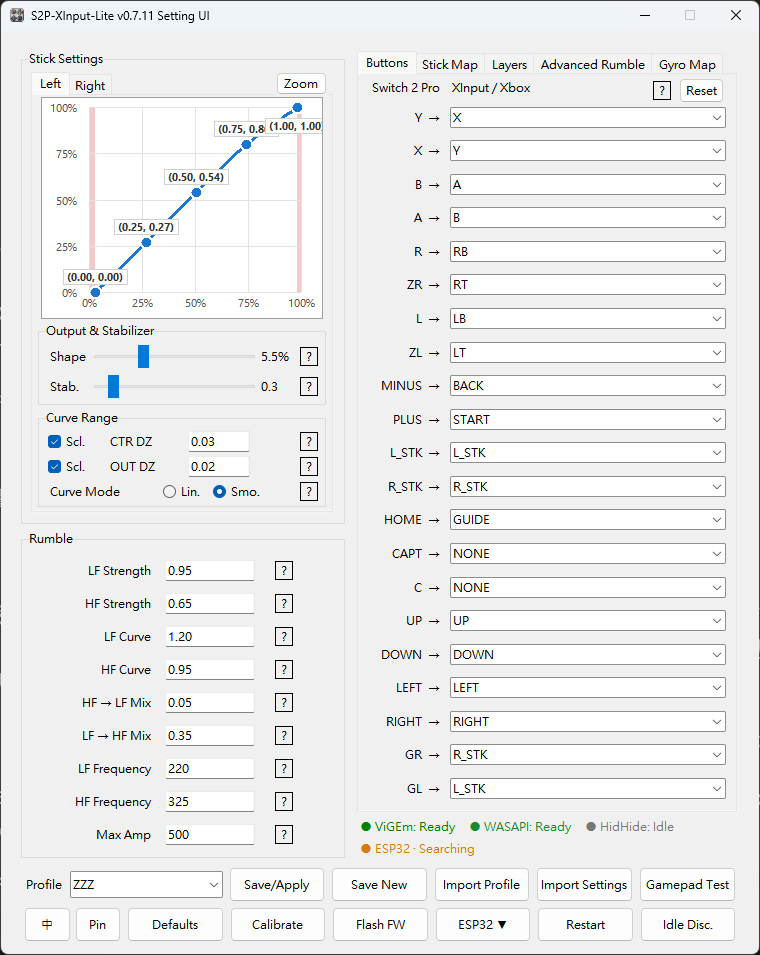
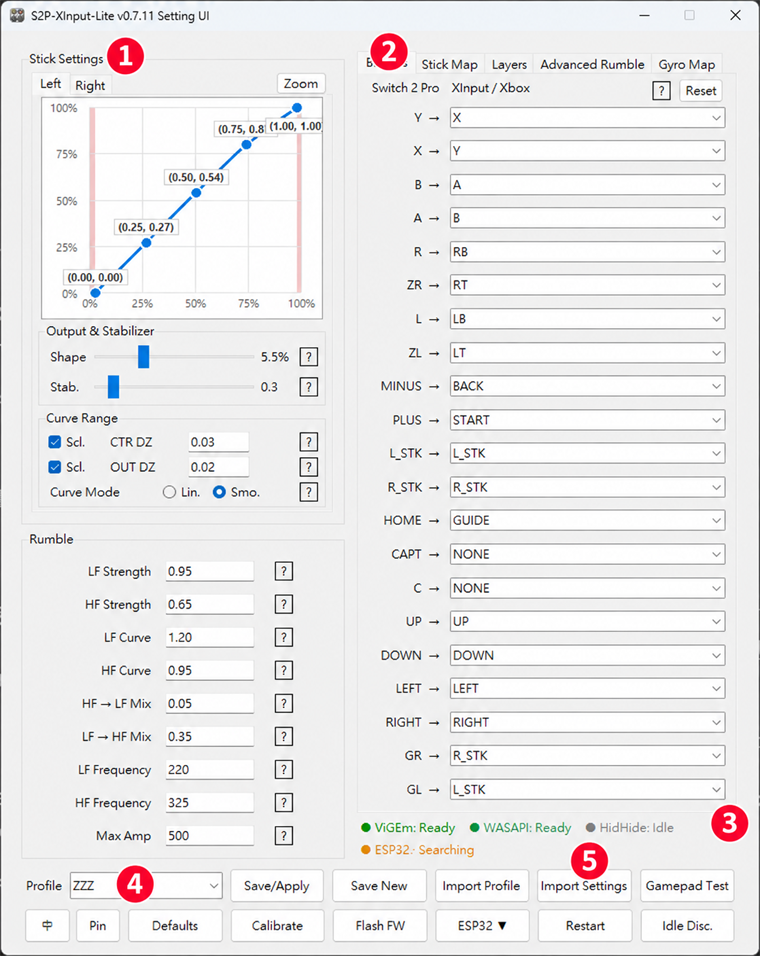
Annotate v0.7.11 manual screenshots

diff --git a/manual/USER_GUIDE.md b/manual/USER_GUIDE.md
@@ -90,14 +90,14 @@ Pair the controller directly with Windows. This is convenient, but update rate a
 
 ![Main window overview](assets/annotated/01-main-buttons.png)
 
-1. **Stick curve** — Drag control points to change the input-to-output response. Left and Right configure the two sticks independently.
-2. **Output and stabilizer** — Shape changes the response shape; Stab. suppresses small movements in amplified curve regions.
-3. **Basic rumble** — LF/HF strength, curves, cross-mixing, frequencies, and maximum amplitude.
-4. **Feature tabs** — Buttons, Stick Map, Layers, Advanced Rumble, and Gyro Map.
-5. **Current tab** — The screenshot shows physical controller buttons mapped to Xbox outputs.
-6. **Status row** — ViGEm, WASAPI, HidHide, controller, and ESP32 status.
-7. **Profile tools** — Switch, save, create, import one profile, or import settings from another installation.
-8. **Global tools** — Language, defaults, calibration, firmware flashing, restart, and Pin.
+1. **Stick settings** — Drag curve control points and adjust output, stabilizer, and basic rumble options.
+2. **Feature tabs** — Switch between Buttons, Stick Map, Layers, Advanced Rumble, and Gyro Map. The screenshot shows Xbox button mapping.
+3. **Status row** — Check ViGEm, WASAPI, HidHide, controller, and ESP32 status.
+4. **Profile selector** — Choose the profile to edit or apply.
+5. **Import Settings** — Migrate compatible settings from another S2P-XInput-Lite installation.
+
+The remaining footer controls save or create profiles, import one profile, change
+language, restore defaults, calibrate, flash firmware, restart, and Pin.
 
 ### 2.1 Status indicators
 
@@ -119,6 +119,10 @@ Pair the controller directly with Windows. This is convenient, but update rate a
 ### 2.3 Import Settings
 
 ![Import Settings conflict preview](assets/annotated/15-import-settings-conflicts.png)
+
+The numbered preview identifies: **1** source installation, **2** compatible data
+found, **3** items deliberately ignored, **4** profile or Mapping Layer conflicts,
+and **5** the choice applied to all conflicts.
 
 1. Select **Import Settings**.
 2. Choose the previous or same-version S2P-XInput-Lite **application root**; do not choose its `src` folder.
@@ -451,6 +455,8 @@ on the ESP32. Features that require Windows are not executed.
 ### 8.5 Writing a profile and enabling standalone mode
 
 ![ESP32 Auto-detect standalone menu](assets/annotated/14-standalone-auto-detect.png)
+
+Callout **1** marks **Write and enable Auto-detect standalone (Experimental)**.
 
 1. Select the profile to write.
 2. Finish editing and select **Save/Apply**.

diff --git a/manual/USER_GUIDE_zh-TW.md b/manual/USER_GUIDE_zh-TW.md
@@ -84,14 +84,14 @@ Windows 程式。
 
 ![主介面總覽](assets/annotated/01-main-buttons.png)
 
-1. **搖桿曲線**：拖曳控制點，調整輸入與輸出的對應。`Left` 與 `Right` 分別設定左右搖桿。
-2. **輸出與防抖**：`Shape` 調整輸出形狀；`Stab.` 抑制曲線放大區域的小幅抖動。
-3. **基本震動**：設定 LF/HF 強度、曲線、混合、頻率與最大振幅。
-4. **功能頁籤**：Buttons、Stick Map、Layers、Advanced Rumble、Gyro Map。
-5. **目前頁面內容**：圖中為實體按鍵對應 Xbox 按鍵。
-6. **狀態列**：顯示 ViGEm、WASAPI、HidHide 與控制器／ESP32 狀態。
-7. **方案工具**：切換、儲存、另存、匯入單一方案，或從另一個安裝資料夾匯入設定。
-8. **全域工具**：切換語言、還原、校正、刷入韌體、重啟連線與 Pin。
+1. **搖桿設定**：調整曲線控制點、輸出、防抖與基本震動選項。
+2. **功能頁籤**：切換 Buttons、Stick Map、Layers、Advanced Rumble 與 Gyro Map；圖中為 Xbox 按鍵對應。
+3. **狀態列**：查看 ViGEm、WASAPI、HidHide、控制器與 ESP32 狀態。
+4. **方案選擇器**：選取要編輯或套用的方案。
+5. **匯入設定**：從另一個 S2P-XInput-Lite 安裝資料夾遷移相容設定。
+
+底部其餘控制項可儲存或新增方案、匯入單一方案、切換語言、還原預設、校正、
+刷入韌體、重啟連線與 Pin。
 
 ### 2.1 狀態列
 
@@ -113,6 +113,9 @@ Windows 程式。
 ### 2.3 匯入設定
 
 ![Import Settings 衝突預覽](assets/annotated/15-import-settings-conflicts.png)
+
+圖中編號分別表示：**1** 來源安裝資料夾、**2** 找到的相容資料、**3** 明確略過的
+資料、**4** 方案或 Mapping Layer 衝突、**5** 套用到所有衝突的選擇。
 
 1. 點選 **匯入設定**。
 2. 選擇舊版或同版本 S2P-XInput-Lite 的**程式根目錄**，不要選 `src`。
@@ -492,6 +495,8 @@ Mapping Layers、陀螺儀轉搖桿及遊戲震動設定。它不會執行需要
 ### 8.5 寫入設定並啟用獨立模式
 
 ![ESP32 自動辨識獨立模式選單](assets/annotated/14-standalone-auto-detect.png)
+
+編號 **1** 標示 **寫入並啟用自動辨識獨立模式（實驗性）**。
 
 1. 選擇要寫入的方案。
 2. 完成參數調整後先按 **Save/Apply**。
